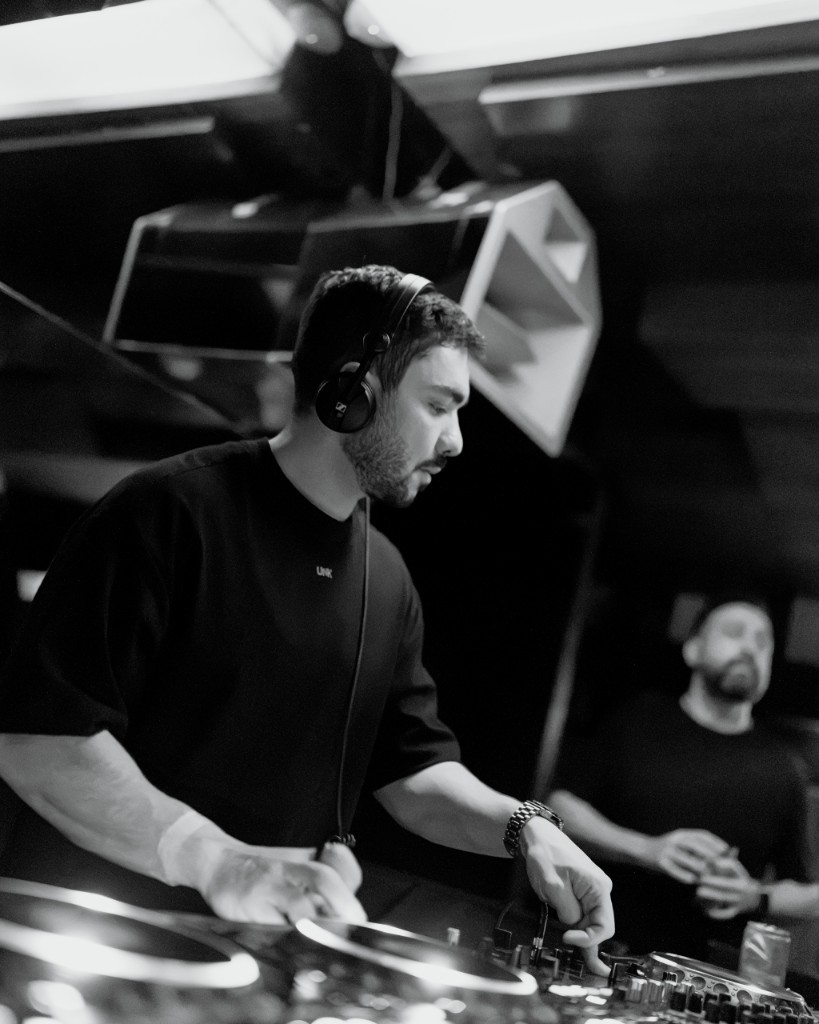
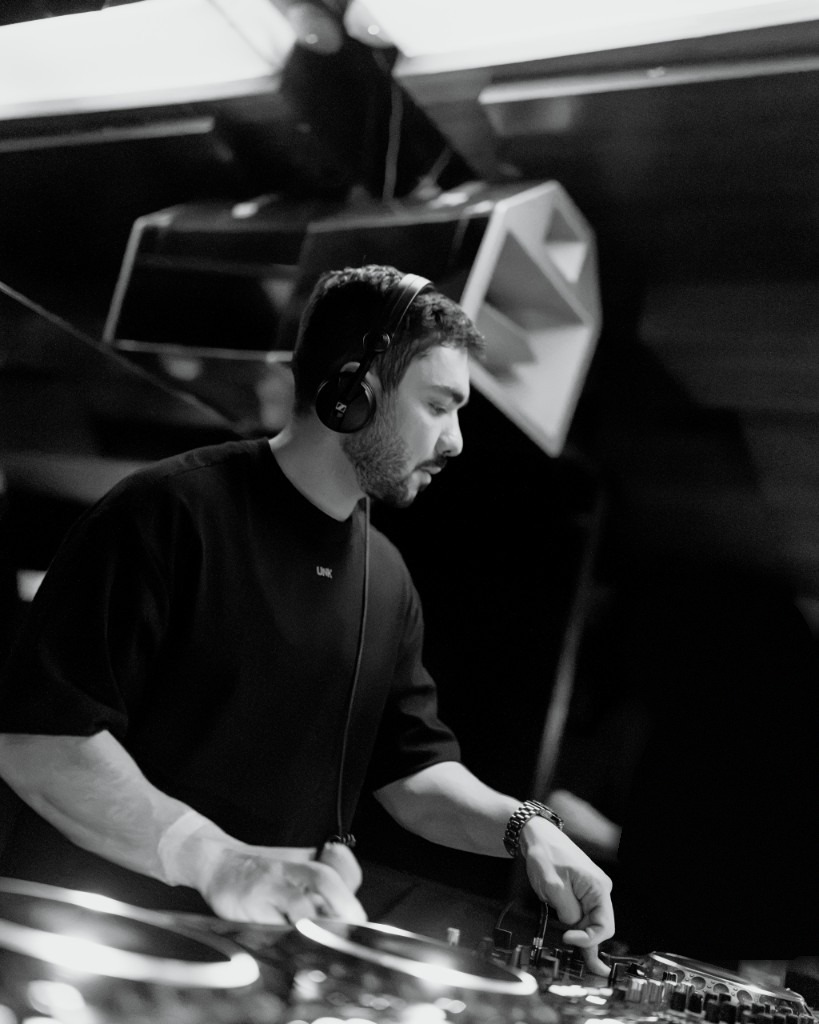
Move the blue photo strip under the booking section and drop the label above the platforms.
The footer stays black with the rights line, titles follow the menu hover, and the session photo no longer shows the person behind Tulio.

Changed region(s): [[0.7326, 0.5625, 1.0, 0.9688]]

diff --git a/src/components/nocturna/AssemblingHeading.tsx b/src/components/nocturna/AssemblingHeading.tsx
@@ -1,35 +1,9 @@
-import { useInView, useReducedMotion } from "motion/react";
-import {
-  useEffect,
-  useMemo,
-  useRef,
-  useState,
-  type ElementType,
-  type PointerEvent,
-  type ReactNode,
-} from "react";
-import { GLYPH_STEP_MS, glyphFrame } from "@/components/tulio/GlyphHover";
+import type { ElementType, ReactNode } from "react";
+import { GlyphHover } from "@/components/tulio/GlyphHover";
 import { cn } from "@/lib/utils";
 
-const GLYPHS = ["▲", "7", "▼", "7", "▲", "▵", "7", "◢"] as const;
-
-function pickGlyph() {
-  return GLYPHS[Math.floor(Math.random() * GLYPHS.length)]!;
-}
-
-type Seed = { x: number; y: number; g: string; rot: number };
-
-function buildSeeds(count: number): Seed[] {
-  return Array.from({ length: count }, (_, i) => ({
-    x: 4 + ((i * 37) % 92),
-    y: 8 + ((i * 53) % 84),
-    g: GLYPHS[i % GLYPHS.length]!,
-    rot: (i % 5) * 36 - 72,
-  }));
-}
-
 /**
- * Title resolves from a field of ▲ / 7 with glitch slices — like an algorithm locking in.
+ * Page titles use the same hover as the menu: 7 and ▲, then the letters lock in.
  */
 export function AssemblingHeading({
   as: Tag = "h2",
@@ -41,121 +15,13 @@ export function AssemblingHeading({
   children: ReactNode;
 }) {
   const text = typeof children === "string" ? children : null;
-  const ref = useRef<HTMLElement>(null);
-  const inView = useInView(ref, { once: true, margin: "-12% 0px" });
-  const reduced = useReducedMotion();
-  const [locked, setLocked] = useState(0);
-  const [noise, setNoise] = useState<string[]>([]);
-  const [glitch, setGlitch] = useState(false);
-  const timers = useRef<number[]>([]);
-  const seeds = useMemo(() => buildSeeds(text ? Math.min(32, text.length + 18) : 24), [text]);
-
-  const clearTimers = () => {
-    timers.current.forEach((id) => {
-      window.clearInterval(id);
-      window.clearTimeout(id);
-    });
-    timers.current = [];
-  };
-
-  const showFrame = (value: string, step: number) => {
-    setLocked(step);
-    setNoise([...glyphFrame(value, step)]);
-    setGlitch(step > 0 && step < [...value].length);
-  };
-
-  const playHover = () => {
-    if (!text || reduced) return;
-    clearTimers();
-    const length = [...text].length;
-    showFrame(text, 0);
-    let step = 0;
-    const tick = () => {
-      step += 1;
-      showFrame(text, step);
-      if (step < length) timers.current.push(window.setTimeout(tick, GLYPH_STEP_MS));
-    };
-    timers.current.push(window.setTimeout(tick, GLYPH_STEP_MS));
-  };
-
-  useEffect(() => {
-    if (!text) return;
-    clearTimers();
-    setNoise(text.split("").map(() => pickGlyph()));
-    if (reduced) {
-      setLocked(text.length);
-      return;
-    }
-    if (!inView) return;
-    setLocked(0);
-    let i = 0;
-    const lockTimer = window.setInterval(() => {
-      i += 1;
-      setGlitch(true);
-      window.setTimeout(() => setGlitch(false), 70);
-      setLocked(i);
-      if (i >= text.length) window.clearInterval(lockTimer);
-    }, 58);
-    const scrambleTimer = window.setInterval(() => {
-      setNoise((prev) => prev.map((g, idx) => (idx >= i ? pickGlyph() : g)));
-    }, 65);
-    timers.current.push(lockTimer, scrambleTimer);
-    return clearTimers;
-  }, [inView, reduced, text]);
-
   if (!text) {
     return <Tag className={cn("nc-display", className)}>{children}</Tag>;
   }
 
-  const progress = text.length ? locked / text.length : 1;
-
   return (
-    <Tag
-      ref={ref as never}
-      aria-label={text}
-      className={cn("nc-display nc-assemble", glitch && "nc-assemble-glitch", className)}
-      onPointerEnter={(event: PointerEvent) => event.pointerType === "mouse" && playHover()}
-    >
-      <span className="nc-assemble-field" aria-hidden>
-        {seeds.map((s, i) => (
-          <span
-            key={i}
-            className="nc-assemble-seed"
-            style={{
-              left: `${s.x}%`,
-              top: `${s.y}%`,
-              transform: `rotate(${s.rot}deg)`,
-              opacity: Math.max(0, 1 - progress * 1.15 - i * 0.015),
-            }}
-          >
-            {s.g}
-          </span>
-        ))}
-      </span>
-      <span className="nc-assemble-slices" aria-hidden>
-        <span className="nc-assemble-slice nc-assemble-slice-a" />
-        <span className="nc-assemble-slice nc-assemble-slice-b" />
-      </span>
-      <span className="nc-assemble-line">
-        {text.split("").map((ch, i) => {
-          const done = i < locked;
-          return (
-            <span
-              key={`${i}-${ch}`}
-              className={cn("nc-assemble-char", done && "is-locked")}
-              data-char={ch}
-            >
-              <span className="nc-assemble-char-r" aria-hidden>
-                {done ? ch : (noise[i] ?? "7")}
-              </span>
-              <span className="nc-assemble-char-b" aria-hidden>
-                {done ? ch : (noise[i] ?? "▲")}
-              </span>
-              <span className="nc-assemble-char-core">{done ? (ch === " " ? "\u00a0" : ch) : (noise[i] ?? "▲")}</span>
-            </span>
-          );
-        })}
-      </span>
+    <Tag className={cn("nc-display", className)} aria-label={text}>
+      <GlyphHover text={text} />
     </Tag>
   );
 }

diff --git a/src/routes/index.tsx b/src/routes/index.tsx
@@ -7,7 +7,6 @@ import {
   NocturnaStepsGrid,
 } from "@/components/nocturna/NocturnaBlocks";
 import { TriangleGridSection } from "@/components/nocturna/TriangleGridSection";
-import { TriangleImageCarousel } from "@/components/nocturna/TriangleImageCarousel";
 import { NocturnaHero } from "@/components/nocturna/NocturnaHero";
 import { SectionWipe } from "@/components/nocturna/SectionTransition";
 import { NocturnaSection } from "@/components/nocturna/NocturnaShell";
@@ -86,7 +85,6 @@ function Home() {
   const { settings, media, home } = Route.useLoaderData();
   const photos = media.filter((item) => item.kind === "image");
   const carousel = photos.slice(0, 14);
-  const heroImage = carousel[0]?.public_url ?? null;
   const carouselUrls = carousel.map((item) => item.public_url ?? "").join("\n");
 
   useLayoutEffect(() => {
@@ -110,8 +108,6 @@ function Home() {
         imageAlt={home.section1_image_alt}
       />
 
-      <TriangleImageCarousel images={carousel.map((item) => item.public_url ?? "").filter(Boolean)} />
-
       <NocturnaSection alt className="nc-section-alt">
         <NocturnaSectionHeader eyebrow={nc.stepsEyebrow} title={nc.stepsTitle} />
         <NocturnaStepsGrid
@@ -122,25 +118,6 @@ function Home() {
           ]}
         />
       </NocturnaSection>
-
-      <NocturnaHero
-        paragraphs={nc.heroParagraphs}
-        imageUrl="/brand/tulio-n26.jpg"
-        actions={
-          <>
-            <CornerButton to="/sets" variant="primary">
-              {nc.ctaPrimary}
-            </CornerButton>
-            <CornerButton to="/galeria">{nc.ctaSecondary}</CornerButton>
-          </>
-        }
-      />
-
-      <SectionWipe />
-
-      <NocturnaLogoStrip label={nc.trusted}>
-        <SocialBar links={home} all />
-      </NocturnaLogoStrip>
 
       {carousel.length > 1 && (
         <div className="overflow-hidden nc-grid-border-b py-6">
@@ -158,6 +135,25 @@ function Home() {
           </div>
         </div>
       )}
+
+      <NocturnaHero
+        paragraphs={nc.heroParagraphs}
+        imageUrl="/brand/tulio-n26.jpg"
+        actions={
+          <>
+            <CornerButton to="/sets" variant="primary">
+              {nc.ctaPrimary}
+            </CornerButton>
+            <CornerButton to="/galeria">{nc.ctaSecondary}</CornerButton>
+          </>
+        }
+      />
+
+      <SectionWipe />
+
+      <NocturnaLogoStrip>
+        <SocialBar links={home} all />
+      </NocturnaLogoStrip>
 
       {home.booking_email && (
         <div className="flex h-28 items-center justify-center bg-black px-6 text-center max-md:-mb-28 md:hidden">

diff --git a/src/components/jula/Footer.tsx b/src/components/jula/Footer.tsx
@@ -1,18 +1,16 @@
 import { Link } from "@tanstack/react-router";
-import { FramerGridPreview } from "@/components/nocturna/FramerGridPreview";
 import { TulioWordmark } from "@/components/tulio/TulioWordmark";
 
 export function Footer() {
   return (
-    <footer className="relative isolate overflow-hidden nc-grid-border-t bg-black py-14 md:py-16">
-      <FramerGridPreview className="pointer-events-none absolute inset-0 z-0" shape="triangle" controls={false} />
-      <div className="relative z-10 px-5 md:px-10 lg:px-14">
+    <footer className="bg-black py-14 md:py-16">
+      <div className="px-5 md:px-10 lg:px-14">
         <div className="flex items-center justify-between gap-6">
-          <Link to="/" className="inline-block text-white transition-opacity hover:opacity-75">
+          <Link to="/" className="inline-block shrink-0 text-white transition-opacity hover:opacity-75">
             <TulioWordmark className="text-[clamp(3.25rem,7vw,6rem)]" />
           </Link>
-          <p className="font-mono text-[clamp(1.5rem,2.6vw,2.25rem)] tracking-[0.14em] text-white">
-            {new Date().getFullYear()}
+          <p className="max-w-[11rem] text-right font-mono text-[12px] leading-snug tracking-[0.08em] text-white md:max-w-none md:text-[15px]">
+            All rights reserved Tulio {new Date().getFullYear()}
           </p>
         </div>
         <div className="mt-4 flex justify-end">

diff --git a/src/components/nocturna/TriangleGridSection.tsx b/src/components/nocturna/TriangleGridSection.tsx
@@ -14,10 +14,15 @@ export function TriangleGridSection({
   imageUrl?: string;
   imageAlt?: string;
 }) {
+  const sessionSrc =
+    imageUrl.includes("tulio-session.jpg") && !imageUrl.includes("v=")
+      ? `${imageUrl}${imageUrl.includes("?") ? "&" : "?"}v=3`
+      : imageUrl;
+
   return (
-    <section className="relative overflow-hidden bg-black md:min-h-[calc(100dvh-8.4rem)]" aria-label="Abertura">
-      <div className="relative z-10 grid min-h-[78vh] grid-cols-2 md:h-[calc(100dvh-8.4rem)]">
-        <ImageGlitch src={imageUrl} alt={imageAlt} edge="left" />
+    <section className="relative overflow-hidden bg-black md:min-h-[calc(100dvh-9.2rem)]" aria-label="Abertura">
+      <div className="relative z-10 grid min-h-[78vh] grid-cols-2 md:h-[calc(100dvh-9.2rem)]">
+        <ImageGlitch src={sessionSrc} alt={imageAlt} edge="left" />
         <ImageGlitch src={BOOTH_PHOTO} alt="Tulio na cabine" edge="right" />
       </div>
       <div className="pointer-events-none absolute top-3 right-3 z-20 size-[34vw] max-w-[220px] md:top-6 md:right-8 md:size-[240px]">

diff --git a/src/components/nocturna/NocturnaBlocks.tsx b/src/components/nocturna/NocturnaBlocks.tsx
@@ -217,13 +217,15 @@ export function NocturnaCtaBand({
   );
 }
 
-export function NocturnaLogoStrip({ label, children }: { label: string; children: ReactNode }) {
+export function NocturnaLogoStrip({ label, children }: { label?: string; children: ReactNode }) {
   return (
     <div className="nc-grid-border-b py-8">
       <NocturnaContainer>
-        <p className="nc-muted mb-6 text-center font-mono text-[10px] uppercase tracking-[0.22em]">
-          {label}
-        </p>
+        {label ? (
+          <p className="nc-muted mb-6 text-center font-mono text-[10px] uppercase tracking-[0.22em]">
+            {label}
+          </p>
+        ) : null}
         <div className="flex flex-wrap items-center justify-center gap-x-12 gap-y-4">{children}</div>
       </NocturnaContainer>
     </div>

diff --git a/src/components/jula/SiteHeader.tsx b/src/components/jula/SiteHeader.tsx
@@ -31,7 +31,7 @@ export function SiteHeader() {
   return (
     <>
       <header className="fixed inset-x-0 top-0 z-[70] border-b border-white/10 bg-black/85 text-white backdrop-blur-md">
-        <div className="flex justify-center px-4 pt-[max(env(safe-area-inset-top),0.7rem)]">
+        <div className="flex justify-center px-4 pt-[max(env(safe-area-inset-top),1.25rem)] md:pt-[max(env(safe-area-inset-top),1.5rem)]">
           <Link to="/" aria-label="Tulio — início" className="inline-flex no-underline">
             <TulioWordmark className="text-[36px] md:text-[46px]" />
           </Link>

diff --git a/src/routes/__root.tsx b/src/routes/__root.tsx
@@ -186,7 +186,7 @@ function LocalizedOutlet() {
   const pathname = useRouterState({ select: (state) => state.location.pathname });
   const privateArea = pathname === "/auth" || pathname.startsWith("/admin");
   return (
-    <div className={privateArea ? "page-enter pb-28 md:pb-32" : "page-enter pt-[7.6rem] pb-28 md:pt-[8.4rem] md:pb-32"} key={locale}>
+    <div className={privateArea ? "page-enter pb-28 md:pb-32" : "page-enter pt-[8.15rem] pb-28 md:pt-[9.2rem] md:pb-32"} key={locale}>
       <Outlet />
     </div>
   );
